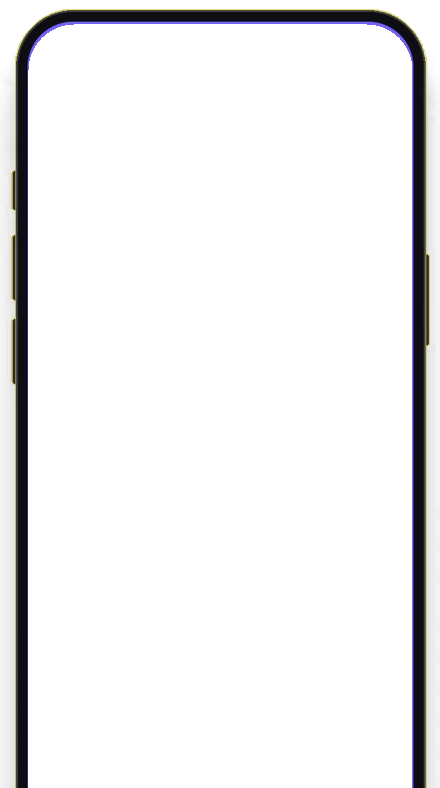
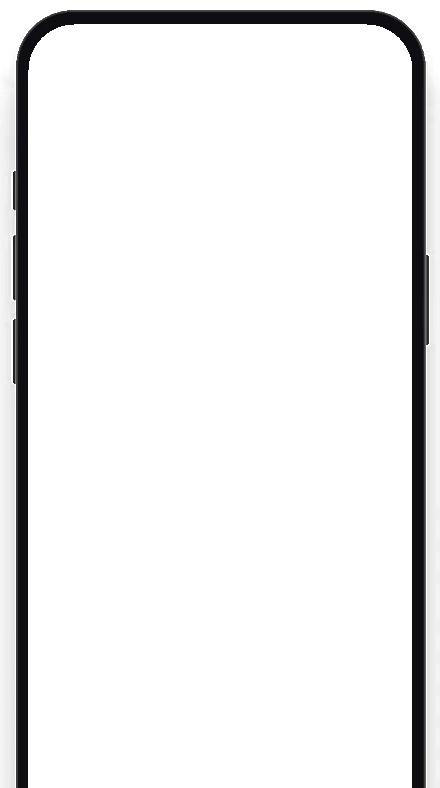
Landing phone: fix video crop scale on landing2, clean yellow/violet rim pixels on the frame

diff --git a/app/web/landing2/index.html b/app/web/landing2/index.html
@@ -42,7 +42,7 @@ h1 span { display:block; color:var(--lime); }
 .phone-wrap { --pw:340px; width:var(--pw); height:calc(var(--pw) * 1.62); overflow:hidden; justify-self:center; }
 .phone { position:relative; width:var(--pw); height:calc(var(--pw) * 788 / 440); }
 .phone .scr { position:absolute; left:5.682%; top:2.665%; width:88.636%; height:97.335%; overflow:hidden; border-radius:12.6% 12.6% 0 0 / 6.4% 6.4% 0 0; }
-.phone video { position:absolute; width:492.37%; height:138.64%; left:-292.83%; top:-11.82%; pointer-events:none; }
+.phone video { position:absolute; width:414.69%; height:118.61%; left:-250.11%; top:-8.57%; pointer-events:none; }
 .phone img { position:absolute; inset:0; width:100%; height:100%; pointer-events:none; }
 .how { background:var(--bg); padding:88px 0; }
 .how h2 { margin:0 0 48px; text-align:center; font-weight:900; font-size:clamp(30px,4vw,48px); letter-spacing:-.03em; }
